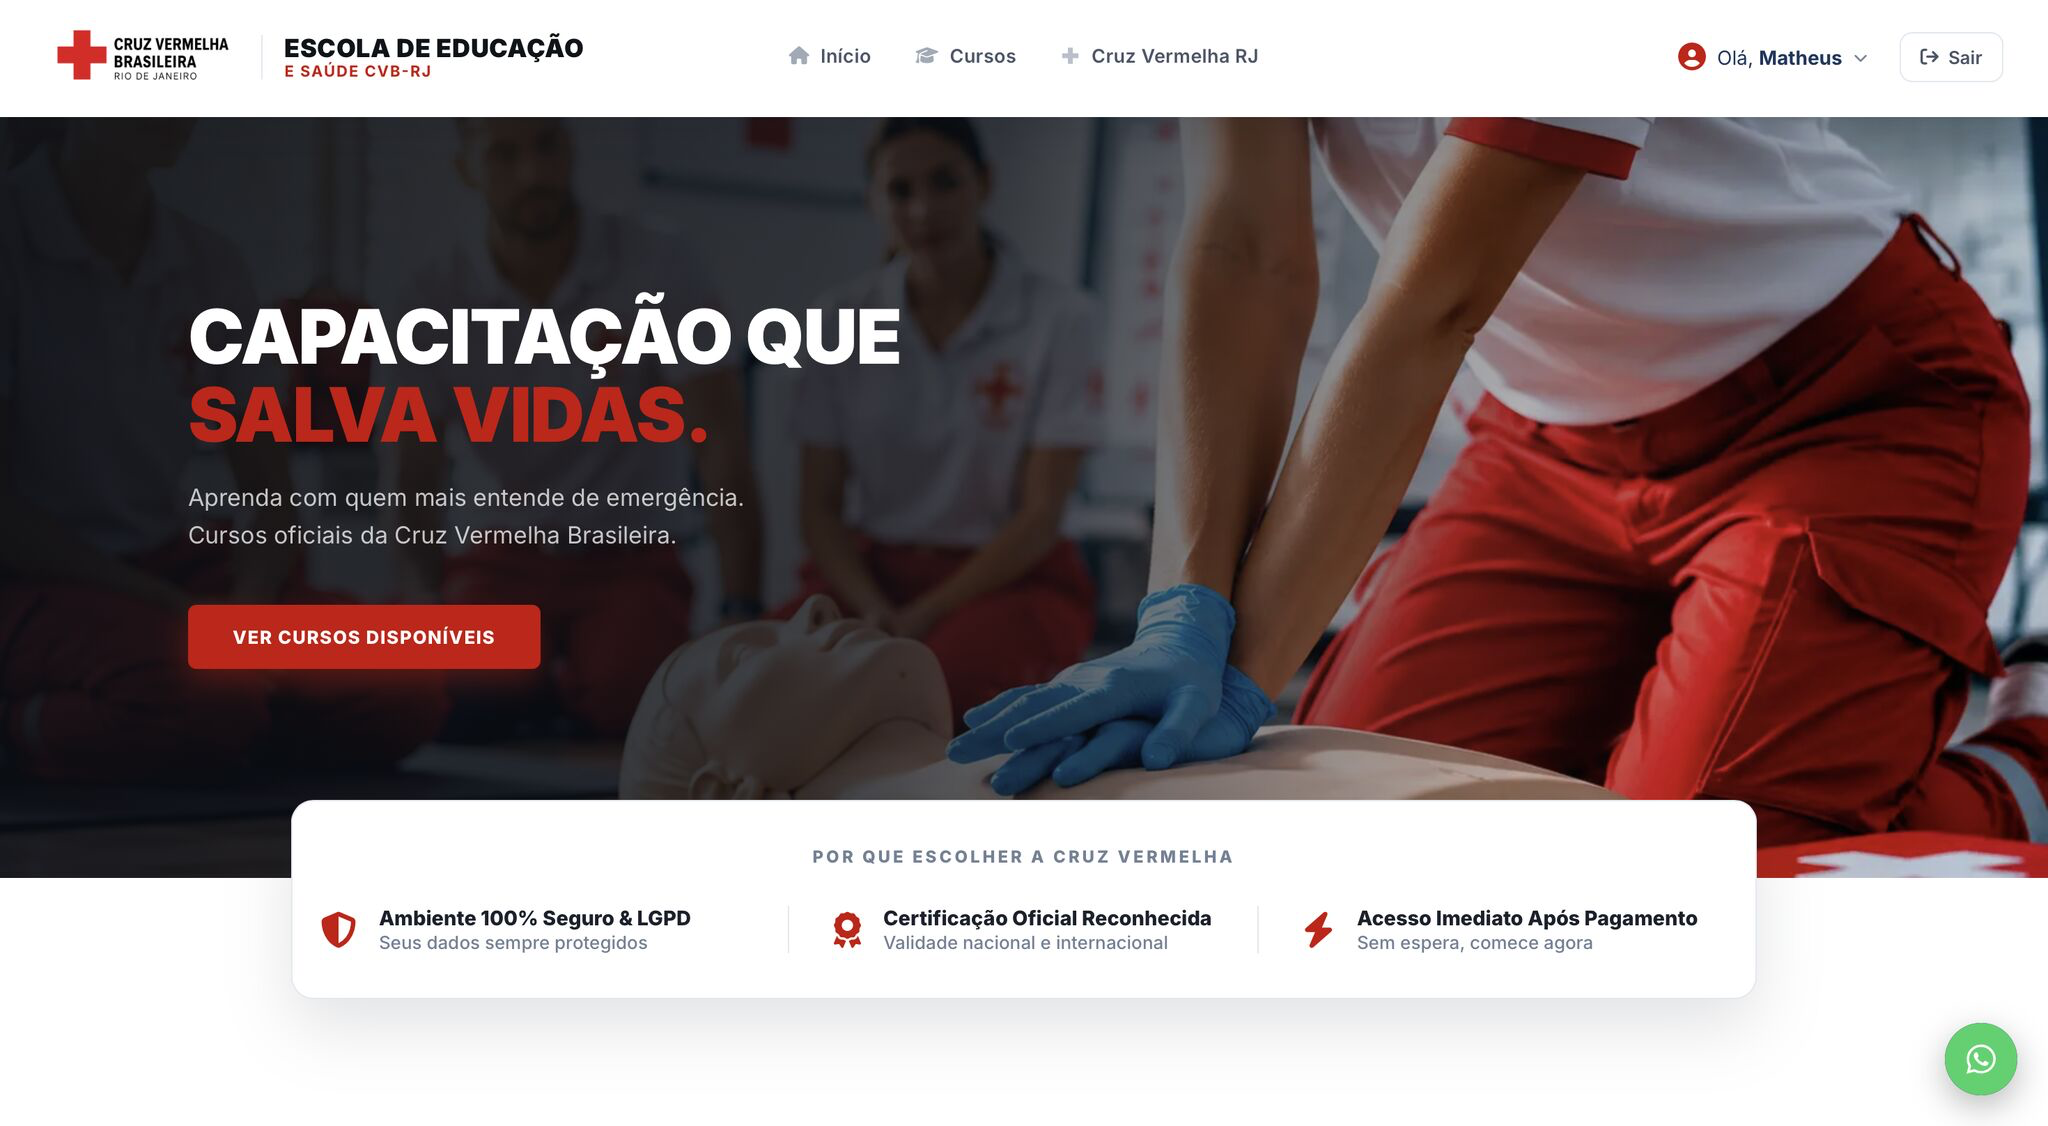
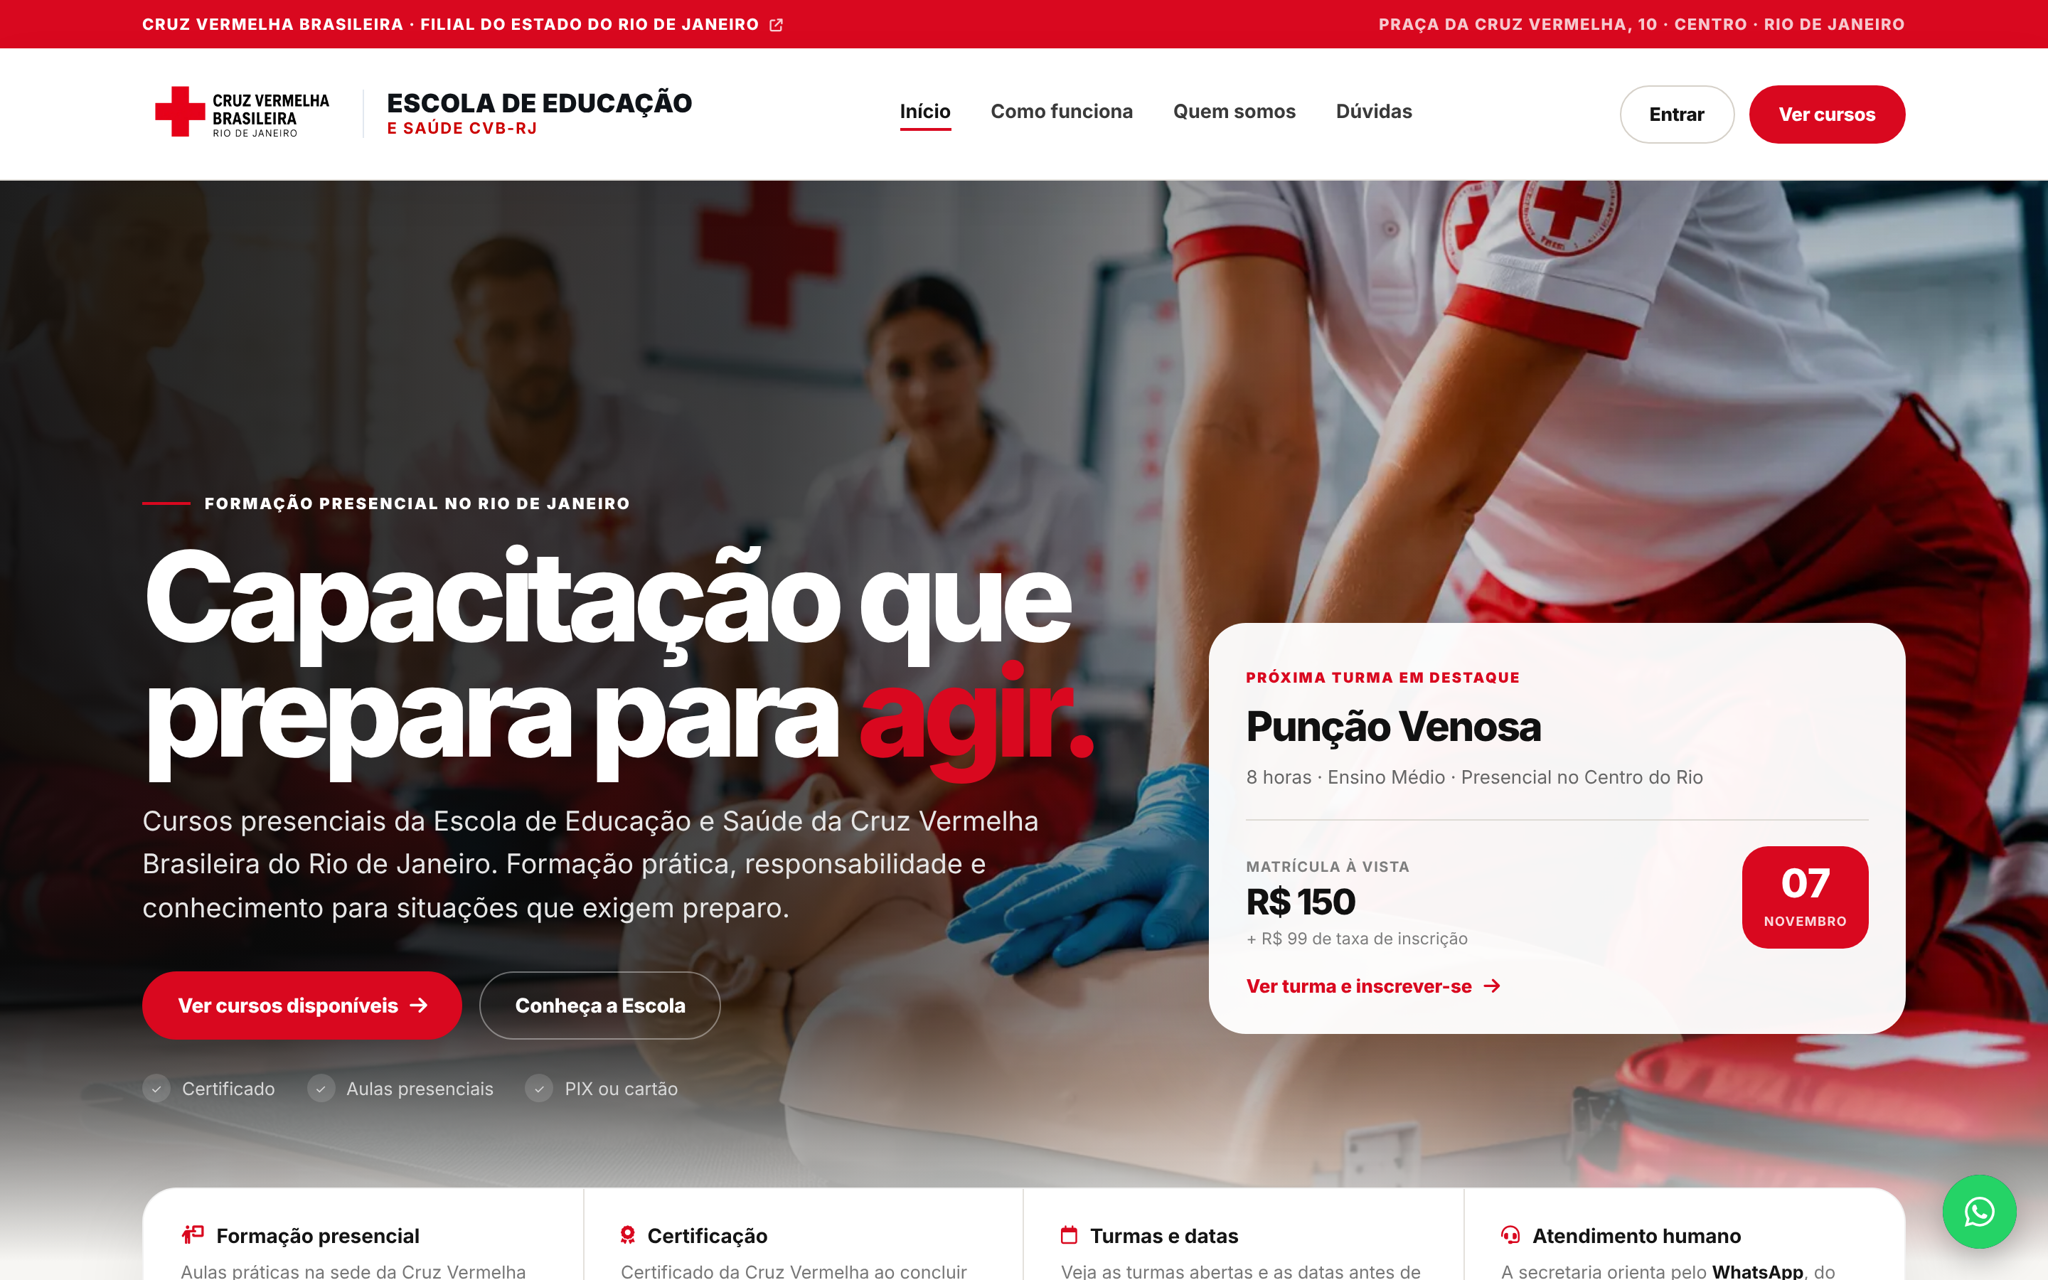
Print novo do site da escola; título e idioma da página seguem PT/EN
Claude-Session: https://claude.ai/code/session_01UDcAPx69xnKHua3GQitQTT

diff --git a/src/_novo/PreviewNovo.jsx b/src/_novo/PreviewNovo.jsx
@@ -20,6 +20,11 @@ export default function PreviewNovo() {
   const base = import.meta.env.BASE_URL;
 
   useEffect(() => {
+    document.documentElement.lang = language === "pt" ? "pt-BR" : "en";
+    document.title = language === "pt" ? "Matheus Neves | Portfólio" : "Matheus Neves | Portfolio";
+  }, [language]);
+
+  useEffect(() => {
     const sel = ".nv-card, .nv-cert, .nv-expcard, .nv-chip, .nv-contact, .nv-idioma, .nv-stat";    const onMove = (e) => {
       const card = e.target.closest(sel);
       if (!card) return;
